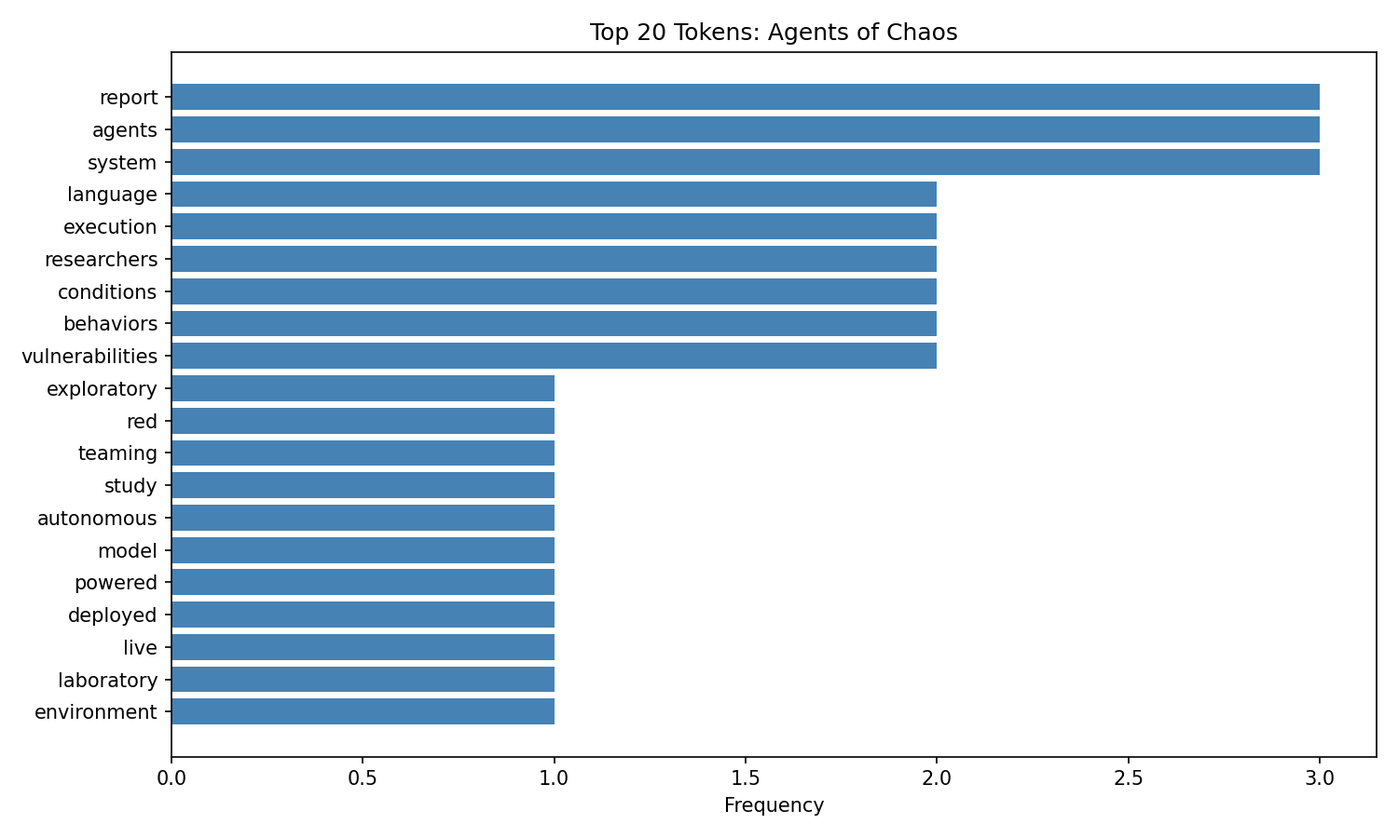
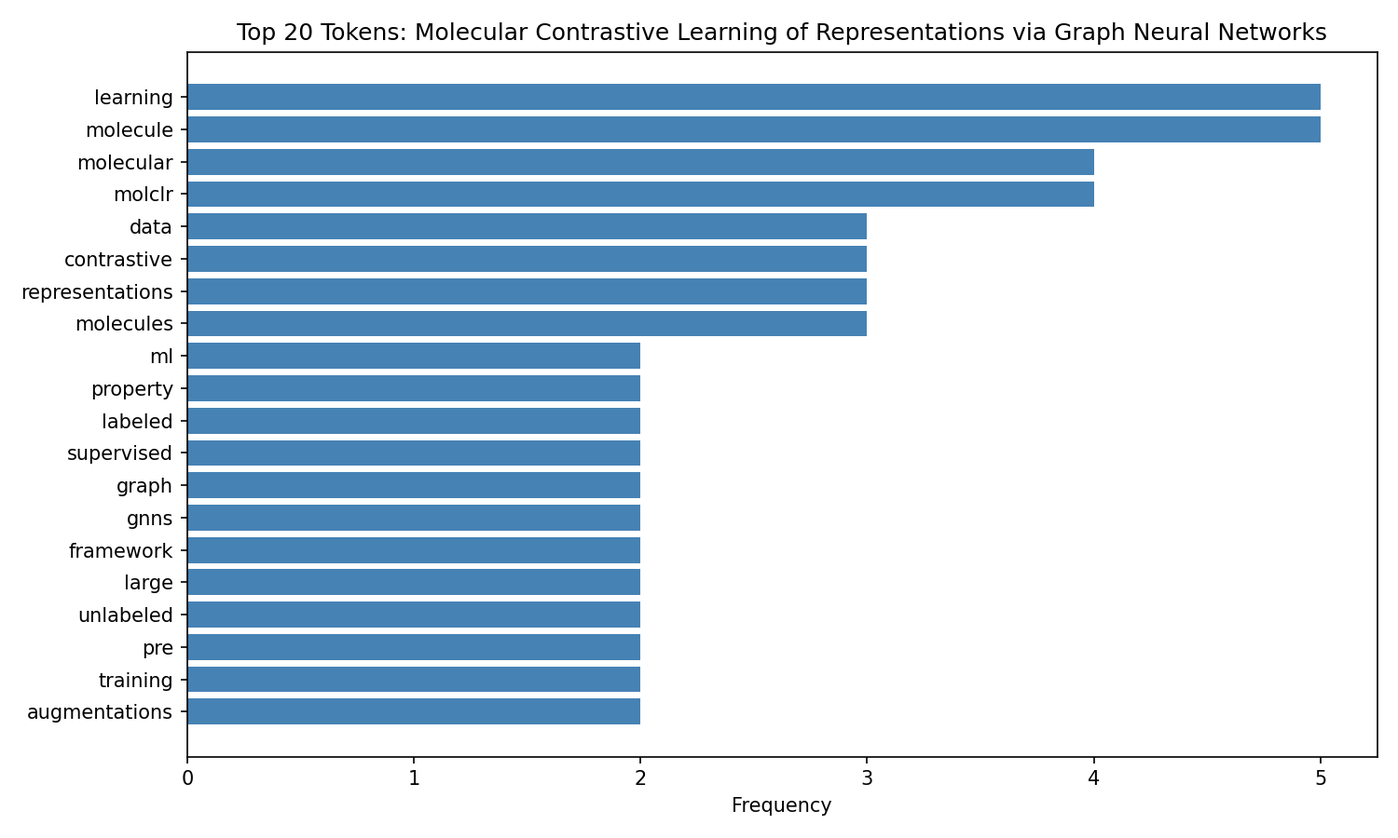
Update URL and Readme file

diff --git a/data/raw/beaderstadt_raw.html b/data/raw/beaderstadt_raw.html
@@ -1,7 +1,7 @@
 <!DOCTYPE html>
 <html lang="en">
 
-<head>  <title>[2602.20021] Agents of Chaos</title>
+<head>  <title>[2102.10056] Molecular Contrastive Learning of Representations via Graph Neural Networks</title>
   <meta name="viewport" content="width=device-width, initial-scale=1">
   <link rel="apple-touch-icon" sizes="180x180" href="/static/browse/0.3.4/images/icons/apple-touch-icon.png">
   <link rel="icon" type="image/png" sizes="32x32" href="/static/browse/0.3.4/images/icons/favicon-32x32.png">
@@ -16,28 +16,28 @@
   <script language="javascript" src="/static/browse/0.3.4/js/accordion.js" ></script>
   <script language="javascript" src="/static/browse/0.3.4/js/optin-modal.js?v=20250819"></script>
 
-  <link rel="canonical" href="https://arxiv.org/abs/2602.20021"/>
-  <meta name="description" content="Abstract page for arXiv paper 2602.20021: Agents of Chaos"><meta property="og:type" content="website" />
+  <link rel="canonical" href="https://arxiv.org/abs/2102.10056"/>
+  <meta name="description" content="Abstract page for arXiv paper 2102.10056: Molecular Contrastive Learning of Representations via Graph Neural Networks"><meta property="og:type" content="website" />
 <meta property="og:site_name" content="arXiv.org" />
-<meta property="og:title" content="Agents of Chaos" />
-<meta property="og:url" content="https://arxiv.org/abs/2602.20021v1" />
+<meta property="og:title" content="Molecular Contrastive Learning of Representations via Graph Neural Networks" />
+<meta property="og:url" content="https://arxiv.org/abs/2102.10056v2" />
 <meta property="og:image" content="/static/browse/0.3.4/images/arxiv-logo-fb.png" />
 <meta property="og:image:secure_url" content="/static/browse/0.3.4/images/arxiv-logo-fb.png" />
 <meta property="og:image:width" content="1200" />
 <meta property="og:image:height" content="700" />
 <meta property="og:image:alt" content="arXiv logo"/>
-<meta property="og:description" content="We report an exploratory red-teaming study of autonomous language-model-powered agents deployed in a live laboratory environment with persistent memory, email accounts, Discord access, file systems, and shell execution. Over a two-week period, twenty AI researchers interacted with the agents under benign and adversarial conditions. Focusing on failures emerging from the integration of language models with autonomy, tool use, and multi-party communication, we document eleven representative case studies. Observed behaviors include unauthorized compliance with non-owners, disclosure of sensitive information, execution of destructive system-level actions, denial-of-service conditions, uncontrolled resource consumption, identity spoofing vulnerabilities, cross-agent propagation of unsafe practices, and partial system takeover. In several cases, agents reported task completion while the underlying system state contradicted those reports. We also report on some of the failed attempts. Our findings establish the existence of security-, privacy-, and governance-relevant vulnerabilities in realistic deployment settings. These behaviors raise unresolved questions regarding accountability, delegated authority, and responsibility for downstream harms, and warrant urgent attention from legal scholars, policymakers, and researchers across disciplines. This report serves as an initial empirical contribution to that broader conversation."/>
+<meta property="og:description" content="Molecular Machine Learning (ML) bears promise for efficient molecule property prediction and drug discovery. However, labeled molecule data can be expensive and time-consuming to acquire. Due to the limited labeled data, it is a great challenge for supervised-learning ML models to generalize to the giant chemical space. In this work, we present MolCLR: Molecular Contrastive Learning of Representations via Graph Neural Networks (GNNs), a self-supervised learning framework that leverages large unlabeled data (~10M unique molecules). In MolCLR pre-training, we build molecule graphs and develop GNN encoders to learn differentiable representations. Three molecule graph augmentations are proposed: atom masking, bond deletion, and subgraph removal. A contrastive estimator maximizes the agreement of augmentations from the same molecule while minimizing the agreement of different molecules. Experiments show that our contrastive learning framework significantly improves the performance of GNNs on various molecular property benchmarks including both classification and regression tasks. Benefiting from pre-training on the large unlabeled database, MolCLR even achieves state-of-the-art on several challenging benchmarks after fine-tuning. Additionally, further investigations demonstrate that MolCLR learns to embed molecules into representations that can distinguish chemically reasonable molecular similarities."/>
 <meta name="twitter:site" content="@arxiv"/>
 <meta name="twitter:card" content="summary"/>
-<meta name="twitter:title" content="Agents of Chaos"/>
-<meta name="twitter:description" content="We report an exploratory red-teaming study of autonomous language-model-powered agents deployed in a live laboratory environment with persistent memory, email accounts, Discord access, file..."/>
+<meta name="twitter:title" content="Molecular Contrastive Learning of Representations via Graph Neural Networks"/>
+<meta name="twitter:description" content="Molecular Machine Learning (ML) bears promise for efficient molecule property prediction and drug discovery. However, labeled molecule data can be expensive and time-consuming to acquire. Due to..."/>
 <meta name="twitter:image" content="https://static.arxiv.org/icons/twitter/arxiv-logo-twitter-square.png"/>
 <meta name="twitter:image:alt" content="arXiv logo"/>
   <link rel="stylesheet" media="screen" type="text/css" href="/static/browse/0.3.4/css/tooltip.css"/><link rel="stylesheet" media="screen" type="text/css" href="https://static.arxiv.org/js/bibex-dev/bibex.css?20200709"/>  <script src="/static/browse/0.3.4/js/mathjaxToggle.min.js" type="text/javascript"></script>  <script src="//code.jquery.com/jquery-latest.min.js" type="text/javascript"></script>
   <script src="//cdn.jsdelivr.net/npm/js-cookie@2/src/js.cookie.min.js" type="text/javascript"></script>
   <script src="//cdn.jsdelivr.net/npm/dompurify@2.3.5/dist/purify.min.js"></script>
   <script src="/static/browse/0.3.4/js/toggle-labs.js?20241022" type="text/javascript"></script>
-  <script src="/static/browse/0.3.4/js/cite.js" type="text/javascript"></script><meta name="citation_title" content="Agents of Chaos" /><meta name="citation_author" content="Shapira, Natalie" /><meta name="citation_author" content="Wendler, Chris" /><meta name="citation_author" content="Yen, Avery" /><meta name="citation_author" content="Sarti, Gabriele" /><meta name="citation_author" content="Pal, Koyena" /><meta name="citation_author" content="Floody, Olivia" /><meta name="citation_author" content="Belfki, Adam" /><meta name="citation_author" content="Loftus, Alex" /><meta name="citation_author" content="Jannali, Aditya Ratan" /><meta name="citation_author" content="Prakash, Nikhil" /><meta name="citation_author" content="Cui, Jasmine" /><meta name="citation_author" content="Rogers, Giordano" /><meta name="citation_author" content="Brinkmann, Jannik" /><meta name="citation_author" content="Rager, Can" /><meta name="citation_author" content="Zur, Amir" /><meta name="citation_author" content="Ripa, Michael" /><meta name="citation_author" content="Sankaranarayanan, Aruna" /><meta name="citation_author" content="Atkinson, David" /><meta name="citation_author" content="Gandikota, Rohit" /><meta name="citation_author" content="Fiotto-Kaufman, Jaden" /><meta name="citation_author" content="Hwang, EunJeong" /><meta name="citation_author" content="Orgad, Hadas" /><meta name="citation_author" content="Sahil, P Sam" /><meta name="citation_author" content="Taglicht, Negev" /><meta name="citation_author" content="Shabtay, Tomer" /><meta name="citation_author" content="Ambus, Atai" /><meta name="citation_author" content="Alon, Nitay" /><meta name="citation_author" content="Oron, Shiri" /><meta name="citation_author" content="Gordon-Tapiero, Ayelet" /><meta name="citation_author" content="Kaplan, Yotam" /><meta name="citation_author" content="Shwartz, Vered" /><meta name="citation_author" content="Shaham, Tamar Rott" /><meta name="citation_author" content="Riedl, Christoph" /><meta name="citation_author" content="Mirsky, Reuth" /><meta name="citation_author" content="Sap, Maarten" /><meta name="citation_author" content="Manheim, David" /><meta name="citation_author" content="Ullman, Tomer" /><meta name="citation_author" content="Bau, David" /><meta name="citation_date" content="2026/02/23" /><meta name="citation_online_date" content="2026/02/23" /><meta name="citation_pdf_url" content="https://arxiv.org/pdf/2602.20021" /><meta name="citation_arxiv_id" content="2602.20021" /><meta name="citation_abstract" content="We report an exploratory red-teaming study of autonomous language-model-powered agents deployed in a live laboratory environment with persistent memory, email accounts, Discord access, file systems, and shell execution. Over a two-week period, twenty AI researchers interacted with the agents under benign and adversarial conditions. Focusing on failures emerging from the integration of language models with autonomy, tool use, and multi-party communication, we document eleven representative case studies. Observed behaviors include unauthorized compliance with non-owners, disclosure of sensitive information, execution of destructive system-level actions, denial-of-service conditions, uncontrolled resource consumption, identity spoofing vulnerabilities, cross-agent propagation of unsafe practices, and partial system takeover. In several cases, agents reported task completion while the underlying system state contradicted those reports. We also report on some of the failed attempts. Our findings establish the existence of security-, privacy-, and governance-relevant vulnerabilities in realistic deployment settings. These behaviors raise unresolved questions regarding accountability, delegated authority, and responsibility for downstream harms, and warrant urgent attention from legal scholars, policymakers, and researchers across disciplines. This report serves as an initial empirical contribution to that broader conversation." />
+  <script src="/static/browse/0.3.4/js/cite.js" type="text/javascript"></script><meta name="citation_title" content="Molecular Contrastive Learning of Representations via Graph Neural Networks" /><meta name="citation_author" content="Wang, Yuyang" /><meta name="citation_author" content="Wang, Jianren" /><meta name="citation_author" content="Cao, Zhonglin" /><meta name="citation_author" content="Farimani, Amir Barati" /><meta name="citation_doi" content="10.1038/s42256-022-00447-x" /><meta name="citation_date" content="2021/02/19" /><meta name="citation_online_date" content="2022/01/17" /><meta name="citation_pdf_url" content="https://arxiv.org/pdf/2102.10056" /><meta name="citation_arxiv_id" content="2102.10056" /><meta name="citation_abstract" content="Molecular Machine Learning (ML) bears promise for efficient molecule property prediction and drug discovery. However, labeled molecule data can be expensive and time-consuming to acquire. Due to the limited labeled data, it is a great challenge for supervised-learning ML models to generalize to the giant chemical space. In this work, we present MolCLR: Molecular Contrastive Learning of Representations via Graph Neural Networks (GNNs), a self-supervised learning framework that leverages large unlabeled data (~10M unique molecules). In MolCLR pre-training, we build molecule graphs and develop GNN encoders to learn differentiable representations. Three molecule graph augmentations are proposed: atom masking, bond deletion, and subgraph removal. A contrastive estimator maximizes the agreement of augmentations from the same molecule while minimizing the agreement of different molecules. Experiments show that our contrastive learning framework significantly improves the performance of GNNs on various molecular property benchmarks including both classification and regression tasks. Benefiting from pre-training on the large unlabeled database, MolCLR even achieves state-of-the-art on several challenging benchmarks after fine-tuning. Additionally, further investigations demonstrate that MolCLR learns to embed molecules into representations that can distinguish chemically reasonable molecular similarities." />
 </head>
 
 <body  class="with-cu-identity">
@@ -61,7 +61,7 @@
       <div id="header" class="is-hidden-mobile">
 <a aria-hidden="true" tabindex="-1" href="/IgnoreMe"></a>
   <div class="header-breadcrumbs is-hidden-mobile">
-    <a href="/"><img src="/static/browse/0.3.4/images/arxiv-logo-one-color-white.svg" alt="arxiv logo" style="height:40px;"/></a> <span>&gt;</span> <a href="/list/cs/recent">cs</a> <span>&gt;</span> arXiv:2602.20021
+    <a href="/"><img src="/static/browse/0.3.4/images/arxiv-logo-one-color-white.svg" alt="arxiv logo" style="height:40px;"/></a> <span>&gt;</span> <a href="/list/cs/recent">cs</a> <span>&gt;</span> arXiv:2102.10056
   </div>
 
         <div class="columns is-vcentered is-mobile" style="justify-content: flex-end;">
@@ -150,34 +150,34 @@ rdf:RDF xmlns:rdf="http://www.w3.org/1999/02/22-rdf-syntax-ns#"
          xmlns:dc="http://purl.org/dc/elements/1.1/"
          xmlns:trackback="http://madskills.com/public/xml/rss/module/trackback/">
     <rdf:Description
-        rdf:about="/abs/2602.20021"
-        dc:identifier="/abs/2602.20021"
-        dc:title="Agents of Chaos"
-        trackback:ping="/trackback/2602.20021" />
+        rdf:about="/abs/2102.10056"
+        dc:identifier="/abs/2102.10056"
+        dc:title="Molecular Contrastive Learning of Representations via Graph Neural Networks"
+        trackback:ping="/trackback/2102.10056" />
     </rdf:RDF>
 --><div id="abs-outer">
 
   <div class="leftcolumn">
     <div class="subheader">
-      <h1>Computer Science > Artificial Intelligence</h1>
+      <h1>Computer Science > Machine Learning</h1>
     </div>
 
     <div class="header-breadcrumbs-mobile">
-      <strong>arXiv:2602.20021</strong> (cs)
+      <strong>arXiv:2102.10056</strong> (cs)
     </div>
 <link rel="stylesheet" type="text/css" href="/static/base/1.0.1/css/abs.css">
 <div id="content-inner">
   <div id="abs">
     <div class="dateline">
-  [Submitted on 23 Feb 2026]</div>
-    <h1 class="title mathjax"><span class="descriptor">Title:</span>Agents of Chaos</h1>
-    <div class="authors"><span class="descriptor">Authors:</span><a href="https://arxiv.org/search/cs?searchtype=author&amp;query=Shapira,+N" rel="nofollow">Natalie Shapira</a>, <a href="https://arxiv.org/search/cs?searchtype=author&amp;query=Wendler,+C" rel="nofollow">Chris Wendler</a>, <a href="https://arxiv.org/search/cs?searchtype=author&amp;query=Yen,+A" rel="nofollow">Avery Yen</a>, <a href="https://arxiv.org/search/cs?searchtype=author&amp;query=Sarti,+G" rel="nofollow">Gabriele Sarti</a>, <a href="https://arxiv.org/search/cs?searchtype=author&amp;query=Pal,+K" rel="nofollow">Koyena Pal</a>, <a href="https://arxiv.org/search/cs?searchtype=author&amp;query=Floody,+O" rel="nofollow">Olivia Floody</a>, <a href="https://arxiv.org/search/cs?searchtype=author&amp;query=Belfki,+A" rel="nofollow">Adam Belfki</a>, <a href="https://arxiv.org/search/cs?searchtype=author&amp;query=Loftus,+A" rel="nofollow">Alex Loftus</a>, <a href="https://arxiv.org/search/cs?searchtype=author&amp;query=Jannali,+A+R" rel="nofollow">Aditya Ratan Jannali</a>, <a href="https://arxiv.org/search/cs?searchtype=author&amp;query=Prakash,+N" rel="nofollow">Nikhil Prakash</a>, <a href="https://arxiv.org/search/cs?searchtype=author&amp;query=Cui,+J" rel="nofollow">Jasmine Cui</a>, <a href="https://arxiv.org/search/cs?searchtype=author&amp;query=Rogers,+G" rel="nofollow">Giordano Rogers</a>, <a href="https://arxiv.org/search/cs?searchtype=author&amp;query=Brinkmann,+J" rel="nofollow">Jannik Brinkmann</a>, <a href="https://arxiv.org/search/cs?searchtype=author&amp;query=Rager,+C" rel="nofollow">Can Rager</a>, <a href="https://arxiv.org/search/cs?searchtype=author&amp;query=Zur,+A" rel="nofollow">Amir Zur</a>, <a href="https://arxiv.org/search/cs?searchtype=author&amp;query=Ripa,+M" rel="nofollow">Michael Ripa</a>, <a href="https://arxiv.org/search/cs?searchtype=author&amp;query=Sankaranarayanan,+A" rel="nofollow">Aruna Sankaranarayanan</a>, <a href="https://arxiv.org/search/cs?searchtype=author&amp;query=Atkinson,+D" rel="nofollow">David Atkinson</a>, <a href="https://arxiv.org/search/cs?searchtype=author&amp;query=Gandikota,+R" rel="nofollow">Rohit Gandikota</a>, <a href="https://arxiv.org/search/cs?searchtype=author&amp;query=Fiotto-Kaufman,+J" rel="nofollow">Jaden Fiotto-Kaufman</a>, <a href="https://arxiv.org/search/cs?searchtype=author&amp;query=Hwang,+E" rel="nofollow">EunJeong Hwang</a>, <a href="https://arxiv.org/search/cs?searchtype=author&amp;query=Orgad,+H" rel="nofollow">Hadas Orgad</a>, <a href="https://arxiv.org/search/cs?searchtype=author&amp;query=Sahil,+P+S" rel="nofollow">P Sam Sahil</a>, <a href="https://arxiv.org/search/cs?searchtype=author&amp;query=Taglicht,+N" rel="nofollow">Negev Taglicht</a>, <a href="https://arxiv.org/search/cs?searchtype=author&amp;query=Shabtay,+T" rel="nofollow">Tomer Shabtay</a>, <a href="https://arxiv.org/search/cs?searchtype=author&amp;query=Ambus,+A" rel="nofollow">Atai Ambus</a>, <a href="https://arxiv.org/search/cs?searchtype=author&amp;query=Alon,+N" rel="nofollow">Nitay Alon</a>, <a href="https://arxiv.org/search/cs?searchtype=author&amp;query=Oron,+S" rel="nofollow">Shiri Oron</a>, <a href="https://arxiv.org/search/cs?searchtype=author&amp;query=Gordon-Tapiero,+A" rel="nofollow">Ayelet Gordon-Tapiero</a>, <a href="https://arxiv.org/search/cs?searchtype=author&amp;query=Kaplan,+Y" rel="nofollow">Yotam Kaplan</a>, <a href="https://arxiv.org/search/cs?searchtype=author&amp;query=Shwartz,+V" rel="nofollow">Vered Shwartz</a>, <a href="https://arxiv.org/search/cs?searchtype=author&amp;query=Shaham,+T+R" rel="nofollow">Tamar Rott Shaham</a>, <a href="https://arxiv.org/search/cs?searchtype=author&amp;query=Riedl,+C" rel="nofollow">Christoph Riedl</a>, <a href="https://arxiv.org/search/cs?searchtype=author&amp;query=Mirsky,+R" rel="nofollow">Reuth Mirsky</a>, <a href="https://arxiv.org/search/cs?searchtype=author&amp;query=Sap,+M" rel="nofollow">Maarten Sap</a>, <a href="https://arxiv.org/search/cs?searchtype=author&amp;query=Manheim,+D" rel="nofollow">David Manheim</a>, <a href="https://arxiv.org/search/cs?searchtype=author&amp;query=Ullman,+T" rel="nofollow">Tomer Ullman</a>, <a href="https://arxiv.org/search/cs?searchtype=author&amp;query=Bau,+D" rel="nofollow">David Bau</a></div>            <div id="download-button-info" hidden>View a PDF of the paper titled Agents of Chaos, by Natalie Shapira and 37 other authors</div>
-    <a class="mobile-submission-download" href="/pdf/2602.20021">View PDF</a>
+  [Submitted on 19 Feb 2021 (<a href="https://arxiv.org/abs/2102.10056v1">v1</a>), last revised 17 Jan 2022 (this version, v2)]</div>
+    <h1 class="title mathjax"><span class="descriptor">Title:</span>Molecular Contrastive Learning of Representations via Graph Neural Networks</h1>
+    <div class="authors"><span class="descriptor">Authors:</span><a href="https://arxiv.org/search/cs?searchtype=author&amp;query=Wang,+Y" rel="nofollow">Yuyang Wang</a>, <a href="https://arxiv.org/search/cs?searchtype=author&amp;query=Wang,+J" rel="nofollow">Jianren Wang</a>, <a href="https://arxiv.org/search/cs?searchtype=author&amp;query=Cao,+Z" rel="nofollow">Zhonglin Cao</a>, <a href="https://arxiv.org/search/cs?searchtype=author&amp;query=Farimani,+A+B" rel="nofollow">Amir Barati Farimani</a></div>            <div id="download-button-info" hidden>View a PDF of the paper titled Molecular Contrastive Learning of Representations via Graph Neural Networks, by Yuyang Wang and 3 other authors</div>
+    <a class="mobile-submission-download" href="/pdf/2102.10056">View PDF</a>
 
 
 
     <blockquote class="abstract mathjax">
-            <span class="descriptor">Abstract:</span>We report an exploratory red-teaming study of autonomous language-model-powered agents deployed in a live laboratory environment with persistent memory, email accounts, Discord access, file systems, and shell execution. Over a two-week period, twenty AI researchers interacted with the agents under benign and adversarial conditions. Focusing on failures emerging from the integration of language models with autonomy, tool use, and multi-party communication, we document eleven representative case studies. Observed behaviors include unauthorized compliance with non-owners, disclosure of sensitive information, execution of destructive system-level actions, denial-of-service conditions, uncontrolled resource consumption, identity spoofing vulnerabilities, cross-agent propagation of unsafe practices, and partial system takeover. In several cases, agents reported task completion while the underlying system state contradicted those reports. We also report on some of the failed attempts. Our findings establish the existence of security-, privacy-, and governance-relevant vulnerabilities in realistic deployment settings. These behaviors raise unresolved questions regarding accountability, delegated authority, and responsibility for downstream harms, and warrant urgent attention from legal scholars, policymakers, and researchers across disciplines. This report serves as an initial empirical contribution to that broader conversation.
+            <span class="descriptor">Abstract:</span>Molecular Machine Learning (ML) bears promise for efficient molecule property prediction and drug discovery. However, labeled molecule data can be expensive and time-consuming to acquire. Due to the limited labeled data, it is a great challenge for supervised-learning ML models to generalize to the giant chemical space. In this work, we present MolCLR: Molecular Contrastive Learning of Representations via Graph Neural Networks (GNNs), a self-supervised learning framework that leverages large unlabeled data (~10M unique molecules). In MolCLR pre-training, we build molecule graphs and develop GNN encoders to learn differentiable representations. Three molecule graph augmentations are proposed: atom masking, bond deletion, and subgraph removal. A contrastive estimator maximizes the agreement of augmentations from the same molecule while minimizing the agreement of different molecules. Experiments show that our contrastive learning framework significantly improves the performance of GNNs on various molecular property benchmarks including both classification and regression tasks. Benefiting from pre-training on the large unlabeled database, MolCLR even achieves state-of-the-art on several challenging benchmarks after fine-tuning. Additionally, further investigations demonstrate that MolCLR learns to embed molecules into representations that can distinguish chemically reasonable molecular similarities.
     </blockquote>
 
     <!--CONTEXT-->
@@ -185,20 +185,20 @@ rdf:RDF xmlns:rdf="http://www.w3.org/1999/02/22-rdf-syntax-ns#"
       <table summary="Additional metadata"><tr>
           <td class="tablecell label">Subjects:</td>
           <td class="tablecell subjects">
-            <span class="primary-subject">Artificial Intelligence (cs.AI)</span>; Computers and Society (cs.CY)</td>
+            <span class="primary-subject">Machine Learning (cs.LG)</span>; Chemical Physics (physics.chem-ph)</td>
         </tr><tr>
           <td class="tablecell label">Cite as:</td>
-          <td class="tablecell arxivid"><span class="arxivid"><a href="https://arxiv.org/abs/2602.20021">arXiv:2602.20021</a> [cs.AI]</span></td>
+          <td class="tablecell arxivid"><span class="arxivid"><a href="https://arxiv.org/abs/2102.10056">arXiv:2102.10056</a> [cs.LG]</span></td>
         </tr>
         <tr>
           <td class="tablecell label">&nbsp;</td>
           <td class="tablecell arxividv">(or <span class="arxivid">
-              <a href="https://arxiv.org/abs/2602.20021v1">arXiv:2602.20021v1</a> [cs.AI]</span> for this version)
+              <a href="https://arxiv.org/abs/2102.10056v2">arXiv:2102.10056v2</a> [cs.LG]</span> for this version)
           </td>
         </tr>
         <tr>
           <td class="tablecell label">&nbsp;</td>
-          <td class="tablecell arxivdoi">              <a href="https://doi.org/10.48550/arXiv.2602.20021"  id="arxiv-doi-link">https://doi.org/10.48550/arXiv.2602.20021</a><div class="button-and-tooltip">
+          <td class="tablecell arxivdoi">              <a href="https://doi.org/10.48550/arXiv.2102.10056"  id="arxiv-doi-link">https://doi.org/10.48550/arXiv.2102.10056</a><div class="button-and-tooltip">
               <button class="more-info" aria-describedby="more-info-desc-1">
                 <svg height="15" role="presentation" xmlns="http://www.w3.org/2000/svg" viewBox="0 0 512 512"><path fill="currentColor" d="M256 8C119.043 8 8 119.083 8 256c0 136.997 111.043 248 248 248s248-111.003 248-248C504 119.083 392.957 8 256 8zm0 110c23.196 0 42 18.804 42 42s-18.804 42-42 42-42-18.804-42-42 18.804-42 42-42zm56 254c0 6.627-5.373 12-12 12h-88c-6.627 0-12-5.373-12-12v-24c0-6.627 5.373-12 12-12h12v-64h-12c-6.627 0-12-5.373-12-12v-24c0-6.627 5.373-12 12-12h64c6.627 0 12 5.373 12 12v100h12c6.627 0 12 5.373 12 12v24z" class=""></path></svg>
                 <span class="visually-hidden">Focus to learn more</span>
@@ -208,13 +208,39 @@ rdf:RDF xmlns:rdf="http://www.w3.org/1999/02/22-rdf-syntax-ns#"
                 <span class="left-corner"></span>                  arXiv-issued DOI via DataCite</div>
             </div>
           </td>
-        </tr></table>
+        </tr>        <tr>
+          <td class="tablecell label">Journal&nbsp;reference:</td>
+          <td class="tablecell jref">Published in Nature Machine Intelligence 2022</td>
+        </tr>
+        <tr>
+          <td class="tablecell label">
+            <abbr title="Digital Object Identifier">Related DOI</abbr>:
+          </td>
+          <td class="tablecell doi"><a href="https://doi.org/10.1038/s42256-022-00447-x" data-doi="10.1038/s42256-022-00447-x" class="link-https link-external" rel="external noopener nofollow">https://doi.org/10.1038/s42256-022-00447-x</a>
+
+            <!-- accessible tooltip example -->
+            <div class="button-and-tooltip">
+              <button class="more-info" aria-describedby="more-info-desc-1">
+                <svg height="15" role="presentation" xmlns="http://www.w3.org/2000/svg" viewBox="0 0 512 512"><path fill="currentColor" d="M256 8C119.043 8 8 119.083 8 256c0 136.997 111.043 248 248 248s248-111.003 248-248C504 119.083 392.957 8 256 8zm0 110c23.196 0 42 18.804 42 42s-18.804 42-42 42-42-18.804-42-42 18.804-42 42-42zm56 254c0 6.627-5.373 12-12 12h-88c-6.627 0-12-5.373-12-12v-24c0-6.627 5.373-12 12-12h12v-64h-12c-6.627 0-12-5.373-12-12v-24c0-6.627 5.373-12 12-12h64c6.627 0 12 5.373 12 12v100h12c6.627 0 12 5.373 12 12v24z" class=""></path></svg>
+                <span class="visually-hidden">Focus to learn more</span>
+              </button>
+              <!-- tooltip description -->
+              <div role="tooltip" id="more-info-desc-1">
+                <span class="left-corner"></span>
+                DOI(s) linking to related resources
+              </div>
+            </div>
+          </td>
+        </tr>
+</table>
     </div>
   </div>
 </div>
     <div class="submission-history">
-      <h2>Submission history</h2> From: Natalie Shapira [<a href="/show-email/0ddc3322/2602.20021" rel="nofollow">view email</a>]      <br/>    <strong>[v1]</strong>
-        Mon, 23 Feb 2026 16:28:48 UTC (7,887 KB)<br/>
+      <h2>Submission history</h2> From: Yuyang Wang [<a href="/show-email/03c9e40a/2102.10056" rel="nofollow">view email</a>]      <br/>            <strong><a href="/abs/2102.10056v1" rel="nofollow">[v1]</a></strong>
+        Fri, 19 Feb 2021 17:35:18 UTC (1,198 KB)<br/>
+    <strong>[v2]</strong>
+        Mon, 17 Jan 2022 22:16:20 UTC (4,368 KB)<br/>
 </div>
   </div>
   <!--end leftcolumn-->
@@ -224,32 +250,33 @@ rdf:RDF xmlns:rdf="http://www.w3.org/1999/02/22-rdf-syntax-ns#"
       <h2>Access Paper:</h2>
       <ul>
   <div id="download-button-info" hidden>
-View a PDF of the paper titled Agents of Chaos, by Natalie Shapira and 37 other authors</div><li><a href="/pdf/2602.20021" aria-describedby="download-button-info" accesskey="f" class="abs-button download-pdf">View PDF</a></li><li><a href="/src/2602.20021" class="abs-button download-eprint">TeX Source
+View a PDF of the paper titled Molecular Contrastive Learning of Representations via Graph Neural Networks, by Yuyang Wang and 3 other authors</div><li><a href="/pdf/2102.10056" aria-describedby="download-button-info" accesskey="f" class="abs-button download-pdf">View PDF</a></li><li><a href="/src/2102.10056" class="abs-button download-eprint">TeX Source
  </a></li></ul>
       <div class="abs-license"><a href="http://arxiv.org/licenses/nonexclusive-distrib/1.0/" title="Rights to this article">view license</a></div>
     </div>
     <!--end full-text-->    <div class="browse">
-    Current browse context: <div class="current">cs.AI</div>
+    Current browse context: <div class="current">cs.LG</div>
 
   <div class="prevnext">
 <span class="arrow">
-      <a class="abs-button prev-url" href="/prevnext?id=2602.20021&amp;function=prev&amp;context=cs.AI"
-         accesskey="p" title="previous in cs.AI (accesskey p)" rel="nofollow">&lt;&nbsp;prev</a>
+      <a class="abs-button prev-url" href="/prevnext?id=2102.10056&amp;function=prev&amp;context=cs.LG"
+         accesskey="p" title="previous in cs.LG (accesskey p)" rel="nofollow">&lt;&nbsp;prev</a>
     </span>
     <span class="is-hidden-mobile">&nbsp; | &nbsp;</span>    <span class="arrow">
-      <a class="abs-button next-url" href="/prevnext?id=2602.20021&amp;function=next&amp;context=cs.AI" accesskey="n"
-         title="next in cs.AI (accesskey n)"  rel="nofollow">next&nbsp;&gt;</a>
+      <a class="abs-button next-url" href="/prevnext?id=2102.10056&amp;function=next&amp;context=cs.LG" accesskey="n"
+         title="next in cs.LG (accesskey n)"  rel="nofollow">next&nbsp;&gt;</a>
     </span><br/>
   </div><div class="list">
-    <a class="abs-button abs-button-grey abs-button-small context-new" href="/list/cs.AI/new"  rel="nofollow">new</a>
+    <a class="abs-button abs-button-grey abs-button-small context-new" href="/list/cs.LG/new"  rel="nofollow">new</a>
     <span class="is-hidden-mobile"> | </span>
-    <a class="abs-button abs-button-grey abs-button-small context-recent" href="/list/cs.AI/recent" rel="nofollow">recent</a>
-    <span class="is-hidden-mobile"> | </span><a class="abs-button abs-button-grey abs-button-small context-id" href="/list/cs.AI/2026-02" rel="nofollow">2026-02</a>
+    <a class="abs-button abs-button-grey abs-button-small context-recent" href="/list/cs.LG/recent" rel="nofollow">recent</a>
+    <span class="is-hidden-mobile"> | </span><a class="abs-button abs-button-grey abs-button-small context-id" href="/list/cs.LG/2021-02" rel="nofollow">2021-02</a>
   </div><div class="abs-switch-cat">
     Change to browse by:
     <div class="switch context-change">
-        <a href="/abs/2602.20021?context=cs" rel="nofollow">cs</a><br class="is-hidden-mobile">
-        <a class="subclass" href="/abs/2602.20021?context=cs.CY" rel="nofollow">cs.CY</a><br class="is-hidden-mobile">
+        <a href="/abs/2102.10056?context=cs" rel="nofollow">cs</a><br class="is-hidden-mobile">
+        <a href="/abs/2102.10056?context=physics" rel="nofollow">physics</a><br class="is-hidden-mobile">
+        <a class="subclass" href="/abs/2102.10056?context=physics.chem-ph" rel="nofollow">physics.chem-ph</a><br class="is-hidden-mobile">
     </div>
   </div>
 
@@ -257,13 +284,19 @@ View a PDF of the paper titled Agents of Chaos, by Natalie Shapira and 37 other 
       <div class="extra-ref-cite">
         <h3>References &amp; Citations</h3>
         <ul>
-          <li><a  class="abs-button abs-button-small cite-ads" href="https://ui.adsabs.harvard.edu/abs/arXiv:2602.20021">NASA ADS</a></li><li><a  class="abs-button abs-button-small cite-google-scholar" href="https://scholar.google.com/scholar_lookup?arxiv_id=2602.20021" target="_blank" rel="noopener">Google Scholar</a></li>
-          <li><a  class="abs-button abs-button-small cite-semantic-scholar" href="https://api.semanticscholar.org/arXiv:2602.20021" target="_blank" rel="noopener">Semantic Scholar</a></li>
+          <li><a  class="abs-button abs-button-small cite-ads" href="https://ui.adsabs.harvard.edu/abs/arXiv:2102.10056">NASA ADS</a></li><li><a  class="abs-button abs-button-small cite-google-scholar" href="https://scholar.google.com/scholar_lookup?arxiv_id=2102.10056" target="_blank" rel="noopener">Google Scholar</a></li>
+          <li><a  class="abs-button abs-button-small cite-semantic-scholar" href="https://api.semanticscholar.org/arXiv:2102.10056" target="_blank" rel="noopener">Semantic Scholar</a></li>
         </ul>
         <div style="clear:both;"></div>
       </div>
 
-<div class='extra-ref-cite'>
+<div class="dblp">
+    <h3><a href="https://dblp.uni-trier.de">DBLP</a> - CS Bibliography</h3>
+    <div class="list">
+      <a href="https://dblp.uni-trier.de/db/journals/corr/corr2102.html#abs-2102-10056" title="listing on DBLP">listing</a> | <a href="https://dblp.uni-trier.de/rec/bibtex/journals/corr/abs-2102-10056" title="DBLP bibtex record">bibtex</a>    </div>
+    <div class="list">
+<a href="https://dblp.uni-trier.de/search/author?author=Yuyang%20Wang" title="DBLP author search">Yuyang Wang</a><br/><a href="https://dblp.uni-trier.de/search/author?author=Jianren%20Wang" title="DBLP author search">Jianren Wang</a><br/><a href="https://dblp.uni-trier.de/search/author?author=Amir%20Barati%20Farimani" title="DBLP author search">Amir Barati Farimani</a>    </div>
+  </div><div class='extra-ref-cite'>
     <span id='bib-cite-trigger' class="bib-cite-button abs-button">export BibTeX citation</span>
     <span id='bib-cite-loading' hidden='true'>Loading...</span>
 </div>
@@ -283,12 +316,12 @@ View a PDF of the paper titled Agents of Chaos, by Natalie Shapira and 37 other 
         </div>
     </div>
 </div><div class="bookmarks">
-  <div><h3>Bookmark</h3></div><a class="abs-button abs-button-grey abs-button-small" href="http://www.bibsonomy.org/BibtexHandler?requTask=upload&amp;url=https://arxiv.org/abs/2602.20021&amp;description=Agents of Chaos"
+  <div><h3>Bookmark</h3></div><a class="abs-button abs-button-grey abs-button-small" href="http://www.bibsonomy.org/BibtexHandler?requTask=upload&amp;url=https://arxiv.org/abs/2102.10056&amp;description=Molecular Contrastive Learning of Representations via Graph Neural Networks"
      title="Bookmark on BibSonomy">
     <img src="/static/browse/0.3.4/images/icons/social/bibsonomy.png"
          alt="BibSonomy logo"/>
   </a>
-  <a class="abs-button abs-button-grey abs-button-small" href="https://reddit.com/submit?url=https://arxiv.org/abs/2602.20021&amp;title=Agents of Chaos"
+  <a class="abs-button abs-button-grey abs-button-small" href="https://reddit.com/submit?url=https://arxiv.org/abs/2102.10056&amp;title=Molecular Contrastive Learning of Representations via Graph Neural Networks"
      title="Bookmark on Reddit">
     <img src="/static/browse/0.3.4/images/icons/social/reddit.png"
          alt="Reddit logo"/>
@@ -588,7 +621,24 @@ View a PDF of the paper titled Agents of Chaos, by Natalie Shapira and 37 other 
             <div class="column lab-name">
               <span id="label-for-core">CORE Recommender</span> <em>(<a href="https://core.ac.uk/services/recommender">What is CORE?</a>)</em>
             </div>
-          </div></div>
+          </div>          <div class="columns is-mobile lab-row">
+            <div class="column lab-switch">
+              <label class="switch">
+                <input id="iarxiv-toggle"
+                       type="checkbox"
+                       class="lab-toggle"
+                       data-script-url="/static/browse/0.3.4/js/iarxiv.js"
+                       aria-labelledby="label-for-iarxiv">
+                <span class="slider"></span>
+                <span class="is-sr-only">IArxiv recommender toggle</span>
+              </label>
+            </div>
+            <div class="column lab-name">
+              <span id="label-for-iarxiv">IArxiv Recommender</span>
+              <em>(<a href="https://iarxiv.org/about">What is IArxiv?</a>)</em>
+            </div>
+          </div>
+</div>
         <div id="influenceflower-output"></div>
         <div id="influenceflower-output-graph" style="display:none">
           <ul class="flower-tabs">
@@ -630,7 +680,7 @@ View a PDF of the paper titled Agents of Chaos, by Natalie Shapira and 37 other 
 </div>
 <!-- END LABS AREA -->
   <div class="endorsers">
-    <a href="/auth/show-endorsers/2602.20021" class="endorser-who" rel="nofollow">Which authors of this paper are endorsers?</a> |
+    <a href="/auth/show-endorsers/2102.10056" class="endorser-who" rel="nofollow">Which authors of this paper are endorsers?</a> |
     <a id="mathjax_toggle" href="javascript:setMathjaxCookie()">Disable MathJax</a> (<a href="https://info.arxiv.org/help/mathjax.html">What is MathJax?</a>)
     <span class="help" style="font-style: normal; float: right; margin-top: 0; margin-right: 1em;"></span>
   </div>

diff --git a/src/nlp/config_beaderstadt.py b/src/nlp/config_beaderstadt.py
@@ -33,8 +33,8 @@ from pathlib import Path
 # API CONFIGURATION
 # ============================================================
 
-# TODO: In your custom app, change the URL to work with a different page.
-PAGE_URL: str = "https://arxiv.org/abs/2602.20021"
+# Custom URL to work with a Biomedical AI for drug/toxicity prediction page.
+PAGE_URL: str = "https://arxiv.org/abs/2102.10056"
 
 # Let them know who we are (and that we're doing educational web mining).
 HTTP_REQUEST_HEADERS: dict = {

diff --git a/README.md b/README.md
@@ -234,11 +234,11 @@ git push -u origin main
 
 ## My Project Modifications
 
-To make this project my own, I made a couple small but meaningful changes to the pipeline.
+To make this project my own, I made a couple small but meaningful changes to the pipeline and applied it to a biomedical AI use case. I also tested how easily it could be reused on a different arXiv abstract without changing the core structure.
 
 **Phase 4: Make a Technical Modification**
 1. Added a small cleaning improvement + new derived feature
-      - I added a step to preserve meaning in hyphenated words by doing:
+      - I added a small cleaning improvement by replacing hyphens with spaces by doing:
         - `text = text.replace("-", " ")`
       - I also added a new derived feature called avg_word_length, which calculates the average number of characters per token.
 2. Observations:
@@ -248,13 +248,16 @@ To make this project my own, I made a couple small but meaningful changes to the
       - My frequency results felt more accurate and readable after this change.
       - My average word length was 7.96, which leans pretty technical and lines up with this being an academic paper.
 **Phase 5: Apply the Skills to a New Problem**
-1. TODO
+1. I updated the URL in my config file to point to a different arXiv abstract in the biomedical AI space (focused on drug/toxicity prediction).
 2. TODO
 3. Observations:
-     - TODO
+     - The pipeline worked on the new page without needing any structural changes, which shows it’s reusable across similar arXiv abstracts.
+     - The only change I made was updating the input URL.
 
 **Dataset Source**
-1. TODO
+1. Molecular Contrastive Learning of Representations via Graph Neural Networks
+   https://arxiv.org/abs/2102.10056
+   Domain: Biomedical AI (drug discovery & toxicity prediction)
 
 ## Example Artifact (Output)
 
